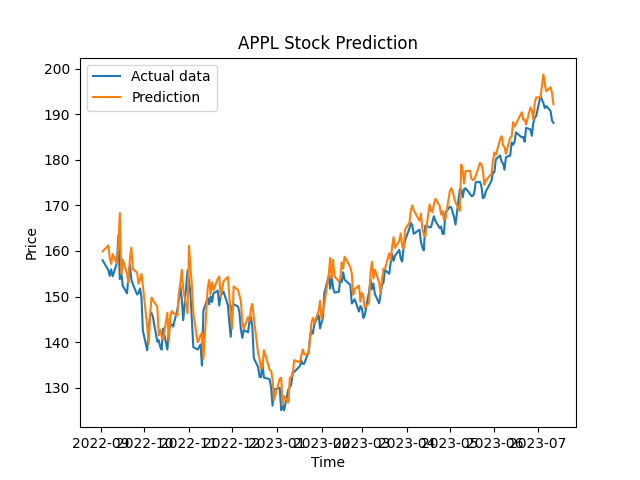
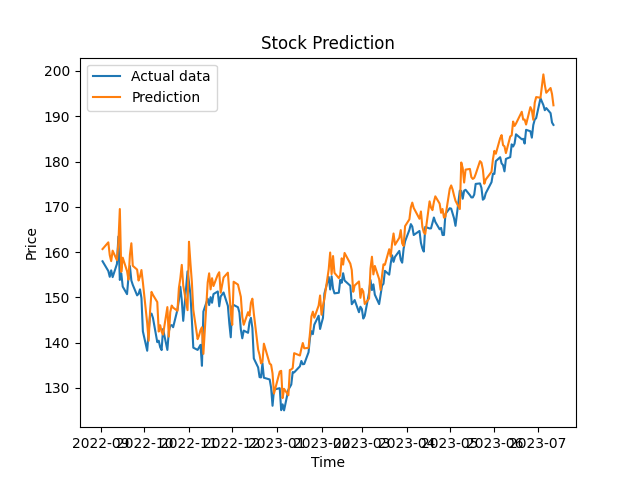
Worked till APLLE, GOOGLE and Microsoft

diff --git a/templates/index.html b/templates/index.html
@@ -6,6 +6,14 @@
     <title>Bootstrap demo</title>
     <link href="https://cdn.jsdelivr.net/npm/bootstrap@5.2.3/dist/css/bootstrap.min.css" rel="stylesheet" integrity="sha384-rbsA2VBKQhggwzxH7pPCaAqO46MgnOM80zW1RWuH61DGLwZJEdK2Kadq2F9CUG65" crossorigin="anonymous">
     <style>
+      body{
+        text-align: center;
+        font-family: "Verdana";
+      }
+      .header{
+        color: aliceblue;
+        padding: 20px;
+      }
       .card-img-top{
         height:280px;
         width: auto;
@@ -19,42 +27,9 @@
     </style>
   </head>
   <body>
-    <nav class="navbar navbar-expand-lg navbar-dark bg-dark">
-      <div class="container">
-        <a class="navbar-brand" href="#">Navbar</a>
-        <button class="navbar-toggler" type="button" data-bs-toggle="collapse" data-bs-target="#navbarSupportedContent" aria-controls="navbarSupportedContent" aria-expanded="false" aria-label="Toggle navigation">
-          <span class="navbar-toggler-icon"></span>
-        </button>
-        <div class="collapse navbar-collapse" id="navbarSupportedContent">
-          <ul class="navbar-nav me-auto mb-2 mb-lg-0">
-            <li class="nav-item">
-              <a class="nav-link active" aria-current="page" href="#">Home</a>
-            </li>
-            <li class="nav-item">
-              <a class="nav-link" href="#">Link</a>
-            </li>
-            <li class="nav-item dropdown">
-              <a class="nav-link dropdown-toggle" href="#" id="navbarDropdown" role="button" data-bs-toggle="dropdown" aria-expanded="false">
-                Dropdown
-              </a>
-              <ul class="dropdown-menu" aria-labelledby="navbarDropdown">
-                <li><a class="dropdown-item" href="#">Action</a></li>
-                <li><a class="dropdown-item" href="#">Another action</a></li>
-                <li><hr class="dropdown-divider"></li>
-                <li><a class="dropdown-item" href="#">Something else here</a></li>
-              </ul>
-            </li>
-            <li class="nav-item">
-              <a class="nav-link disabled">Disabled</a>
-            </li>
-          </ul>
-          <form class="d-flex" role="search">
-            <input class="form-control me-2" type="search" placeholder="Search" aria-label="Search">
-            <button class="btn btn-outline-success" type="submit">Search</button>
-          </form>
-        </div>
-      </div>
-    </nav>
+    <div class="bg-dark header">
+      <h1>Stocks Available</h1>
+    </div>
 
     <div class="container">
       <div class="row mt-5">
@@ -63,7 +38,7 @@
             <img class="card-img-top" src="https://w0.peakpx.com/wallpaper/860/473/HD-wallpaper-apple-iphone-apple-apple-logo-iphone-iphone-5-iphone-6-iphone-7-iphone-8-iphone-x-logo.jpg" alt="Card image cap">
             <div class="card-body">
               <h3>Apple Inc.</h3>
-              <a href="/apple" class="btn btn-dark">Go somewhere</a>
+              <a href="/apple" class="btn btn-dark">Forecast</a>
             </div>
           </div>
         </div>
@@ -71,56 +46,23 @@
           <div class="card" style="width: 18rem;">
             <img class="card-img-top" src="https://w0.peakpx.com/wallpaper/750/138/HD-wallpaper-google-amoled-black-google-logo-oled.jpg" alt="Card image cap">
             <div class="card-body">
-              <p class="card-text">Some quick example text to build on the card title and make up the bulk of the card's content.</p>
-              <a href="#" class="btn btn-dark">Go somewhere</a>
+              <h3>Google LLC.</h3>
+              <a href="/google" class="btn btn-dark">Forecast</a>
             </div>
           </div>
         </div>
         <div class="col-sm-4">
           <div class="card" style="width: 18rem;">
-            <img class="card-img-top" src="..." alt="Card image cap">
[1 lines of base64/hex data omitted]
             <div class="card-body">
-              <p class="card-text">Some quick example text to build on the card title and make up the bulk of the card's content.</p>
-              <a href="#" class="btn btn-dark">Go somewhere</a>
+              <h3>Microsoft Corp.</h3>
+              <a href="/microsoft" class="btn btn-dark">Forecast</a>
             </div>
           </div>
         </div>
       </div>
-
     </div>
 
-    <div class="container">
-      <div class="row mt-5">
-        <div class="col-sm-4">
-          <div class="card hover-zoom" style="width: 18rem;">
-            <img class="card-img-top" src="https://wallpaperaccess.com/full/644237.jpg" alt="Card image cap">
-            <div class="card-body">
-              <p class="card-text">Apple Inc. is an American multinational technology company headquartered in Cupertino, California. Apple is the world's largest technology company by revenue, with US$394.3 billion in 2022 revenue.</p>
-              <a href="#" class="btn btn-dark">Go somewhere</a>
-            </div>
-          </div>
-        </div>
-        <div class="col-sm-4">
-          <div class="card" style="width: 18rem;">
-            <img class="card-img-top" src="https://w0.peakpx.com/wallpaper/750/138/HD-wallpaper-google-amoled-black-google-logo-oled.jpg" alt="Card image cap">
-            <div class="card-body">
-              <p class="card-text">Some quick example text to build on the card title and make up the bulk of the card's content.</p>
-              <a href="#" class="btn btn-dark">Go somewhere</a>
-            </div>
-          </div>
-        </div>
-        <div class="col-sm-4">
-          <div class="card" style="width: 18rem;">
-            <img class="card-img-top" src="..." alt="Card image cap">
-            <div class="card-body">
-              <p class="card-text">Some quick example text to build on the card title and make up the bulk of the card's content.</p>
-              <a href="#" class="btn btn-dark">Go somewhere</a>
-            </div>
-          </div>
-        </div>
-      </div>
-
-    </div>
     
   </body>
 </html>

diff --git a/templates/second_page.html b/templates/second_page.html
@@ -50,7 +50,7 @@
         <!-- Nav Bar -->
         <div class="container-fluid">
         <nav class="navbar navbar-expand-lg navbar-dark">
-          <a class="navbar-brand" href="#">APPLE</a>
+          <a class="navbar-brand" href="#">{{title}}</a>
           <button class="navbar-toggler" type="button" data-bs-toggle="collapse" data-bs-target="#navbarTogglerDemo03" aria-controls="navbarTogglerDemo03" aria-expanded="false" aria-label="Toggle navigation">
               <span class="navbar-toggler-icon"></span>
           </button>

diff --git a/STOCK_CLASS.py b/STOCK_CLASS.py
@@ -11,11 +11,10 @@ from tensorflow.keras.optimizers import Adam
 from tensorflow.keras.layers import Dense
 from tensorflow.keras.layers import LSTM
 
-class APPL_STOCK:
+class STOCK:
     
     df = None
     window_data = None
-    window_data_np = None
     time = None
     x = None
     y = None
@@ -29,16 +28,16 @@ class APPL_STOCK:
     x_test = None
     y_test = None
     model = None
-    model_summary = None
     forecasted_dates = None
     forecasted_data = None
 
-    def __init__(self):
+    def __init__(self,type):    
         headers = {
             'Content-Type': 'application/json'
         }
-        requestResponse = requests.get("https://api.tiingo.com/tiingo/daily/aapl/prices?startDate=2015-01-02&token=424c723fd790ecb18d9ba7cd2e8834b6b5a7eaa7", headers=headers)
-        self.df = pd.DataFrame(requestResponse.json()) 
+        url = "https://api.tiingo.com/tiingo/daily/" + type + "/prices?startDate=2015-01-02&token=424c723fd790ecb18d9ba7cd2e8834b6b5a7eaa7"
+        requestResponse = requests.get(url, headers=headers)
+        self.df = pd.DataFrame(requestResponse.json())
         self.df = self.df[['date','close']]
         self.df['date'] = self.df['date'].apply(self.string_to_date)
         self.df.drop(0,axis=0,inplace=True)
@@ -46,11 +45,12 @@ class APPL_STOCK:
         self.window_data = pd.DataFrame(self.window_data,columns=['date','day1','day2','day3','day4','day5','Target'])
         self.time , self.x , self.y = self.reshape_data()
         self.test_train_split()
-        self.plotted_data()
+        self.plotted_data(type)
         self.define_model()
         self.train_model()
-        self.plot_prediction()
-        self.forecast()
+        self.plot_prediction(type)
+        self.forecast(type)
+        
 
     def string_to_date(self,date):
         date = date[0:10]
@@ -86,7 +86,7 @@ class APPL_STOCK:
         self.time_val , self.x_val , self.y_val = self.time[split1:split2],self.x[split1:split2],self.y[split1:split2]
         self.time_test , self.x_test , self.y_test = self.time[split2:],self.x[split2:],self.y[split2:]
     
-    def plotted_data(self):
+    def plotted_data(self,type):
         fig, ax = plt.subplots()
         ax.plot(self.time_train, self.y_train)
         ax.plot(self.time_val, self.y_val)
@@ -94,8 +94,8 @@ class APPL_STOCK:
         ax.legend(['Training', 'Validation', 'Testing'])
         ax.set_xlabel('Time')
         ax.set_ylabel('Price')
-        ax.set_title('APPL Stock Data')
-        path = 'C:\\Users\\amanr\\Desktop\\FLASK\\static\\APPL_PLOTTED_DATA.png'
+        ax.set_title('Stock Data')
+        path = 'C:\\Users\\amanr\\Desktop\\FLASK\\static\\' + type + '_PLOTTED_DATA.png'
         fig.savefig(path)
         plt.close(fig)
 
@@ -115,20 +115,20 @@ class APPL_STOCK:
         self.model.fit(self.x_train,self.y_train,validation_data = (self.x_val,self.y_val) , epochs = 50)
 
     
-    def plot_prediction(self):
+    def plot_prediction(self,type):
         fig, ax = plt.subplots()
         ax.plot(self.time_test, self.y_test)
         ax.plot(self.time_test, self.model.predict(self.x_test))
         ax.legend(['Actual data', 'Prediction'])
         ax.set_xlabel('Time')
         ax.set_ylabel('Price')
-        ax.set_title('APPL Stock Prediction')
-        path = 'C:\\Users\\amanr\\Desktop\\FLASK\\static\\APPL_PREDICTED_DATA.png'
+        ax.set_title('Stock Prediction')
+        path = 'C:\\Users\\amanr\\Desktop\\FLASK\\static\\' + type + '_PREDICTED_DATA.png'
         fig.savefig(path)
         plt.close(fig)
 
     
-    def forecast(self):     
+    def forecast(self,type):     
         self.forecasted_data = self.x_test[-1:][0]
         self.forecasted_data = self.forecasted_data.reshape(5,)
         dates = []
@@ -147,11 +147,11 @@ class APPL_STOCK:
         ax.legend(['Forecasted_data'])
         ax.set_xlabel('DATE')
         ax.set_ylabel('Price')
-        ax.set_title('APPL Stock Forecasting')
-        path = 'C:\\Users\\amanr\\Desktop\\FLASK\\static\\APPL_FORECASTING_DATA.png'
+        ax.set_title('Stock Forecasting')
+        path = 'C:\\Users\\amanr\\Desktop\\FLASK\\static\\'+ type + '_FORECASTING_DATA.png'
         fig.savefig(path)
         plt.close(fig)
 
 
-
-
+# APPL = STOCK('AAPL')
+# print(APPL.forecasted_data)

diff --git a/app.py b/app.py
@@ -12,33 +12,65 @@ from tensorflow.keras.optimizers import Adam
 from tensorflow.keras.layers import Dense
 from tensorflow.keras.layers import LSTM
 from flask import Flask , render_template , current_app, url_for
-from APPLE import APPL_STOCK
+from STOCK_CLASS import STOCK
 
 
 app = Flask(__name__)
 
-def get_object():
-    if not hasattr(current_app, 'APPL'):
-        current_app.APPL = APPL_STOCK()
-    return current_app.APPL
+
+def get_object(stock_symbol):
+    if stock_symbol == 'AAPL':
+        if not hasattr(current_app, 'APPL'):
+            current_app.APPL = STOCK('AAPL')
+        return current_app.APPL
+    elif stock_symbol == 'GOOGL':
+        if not hasattr(current_app, 'GOOGL'):
+            current_app.GOOGL = STOCK('GOOGL')
+        return current_app.GOOGL
+    elif stock_symbol == 'MSFT':
+        if not hasattr(current_app, 'MSFT'):
+            current_app.MSFT = STOCK('MSFT')
+        return current_app.MSFT
+
 
 @app.route('/')
 def hello_world():
     return render_template('index.html')
 
 @app.route('/apple')
-def hello():
-    # APPL = get_object()
-    # combine = list(zip(APPL.forecasted_dates,APPL.forecasted_data))
-    a = [1,2,3,4,5]
-    b = [2,3,5,6,7]
-    combine = list(zip(a,b))
+def apple():
+    APPL = get_object('AAPL')
+    combine = list(zip(APPL.forecasted_dates,APPL.forecasted_data))
     Forecasting_DATA = url_for('static', filename='APPL_FORECASTING_DATA.png')
-    DATASET = url_for('static', filename='Fetched_APPL_DATA.jpeg')
-    WINDOWED_DATA = url_for('static', filename='Windowed_APPL_data.jpeg')
+    DATASET = url_for('static', filename='FETCHED_AAPL_DATA.jpeg')
+    WINDOWED_DATA = url_for('static', filename='WINDOWED_AAPL_DATA.jpeg')
     TEST_TRAIN_SPLIT = url_for('static', filename='APPL_PLOTTED_DATA.png')
     PREDICTED_DATA = url_for('static', filename='APPL_PREDICTED_DATA.png')
-    return render_template('second_page.html',combine=combine,Forecasting_DATA=Forecasting_DATA,DATASET=DATASET,WINDOWED_DATA=WINDOWED_DATA,TEST_TRAIN_DATA = TEST_TRAIN_SPLIT,PREDICTED_DATA=PREDICTED_DATA)
+    return render_template('second_page.html',title='APPLE',combine=combine,Forecasting_DATA=Forecasting_DATA,DATASET=DATASET,WINDOWED_DATA=WINDOWED_DATA,TEST_TRAIN_DATA = TEST_TRAIN_SPLIT,PREDICTED_DATA=PREDICTED_DATA)
+
+
+@app.route('/google')
+def google():
+    GOOGL = get_object('GOOGL')
+    combine = list(zip(GOOGL.forecasted_dates,GOOGL.forecasted_data))
+    Forecasting_DATA = url_for('static', filename='GOOGL_FORECASTING_DATA.png')
+    DATASET = url_for('static', filename='FETCHED_GOOGL_DATA.jpeg')
+    WINDOWED_DATA = url_for('static', filename='WINDOWED_GOOGL_data.jpeg')
+    TEST_TRAIN_SPLIT = url_for('static', filename='GOOGL_PLOTTED_DATA.png')
+    PREDICTED_DATA = url_for('static', filename='GOOGL_PREDICTED_DATA.png')
+    return render_template('second_page.html',title='Google',combine=combine,Forecasting_DATA=Forecasting_DATA,DATASET=DATASET,WINDOWED_DATA=WINDOWED_DATA,TEST_TRAIN_DATA = TEST_TRAIN_SPLIT,PREDICTED_DATA=PREDICTED_DATA)
+
+
+@app.route('/microsoft')
+def microsoft():
+    MSFT = get_object('MSFT')
+    combine = list(zip(MSFT.forecasted_dates,MSFT.forecasted_data))
+    Forecasting_DATA = url_for('static', filename='MSFT_FORECASTING_DATA.png')
+    DATASET = url_for('static', filename='FETCHED_MSFT_DATA.jpeg')
+    WINDOWED_DATA = url_for('static', filename='WINDOWED_MSFT_data.jpeg')
+    TEST_TRAIN_SPLIT = url_for('static', filename='MSFT_PLOTTED_DATA.png')
+    PREDICTED_DATA = url_for('static', filename='MSFT_PREDICTED_DATA.png')
+    return render_template('second_page.html',title='Microsoft',combine=combine,Forecasting_DATA=Forecasting_DATA,DATASET=DATASET,WINDOWED_DATA=WINDOWED_DATA,TEST_TRAIN_DATA = TEST_TRAIN_SPLIT,PREDICTED_DATA=PREDICTED_DATA)
 
 if __name__ == "__main__":
     app.run(debug=True)
